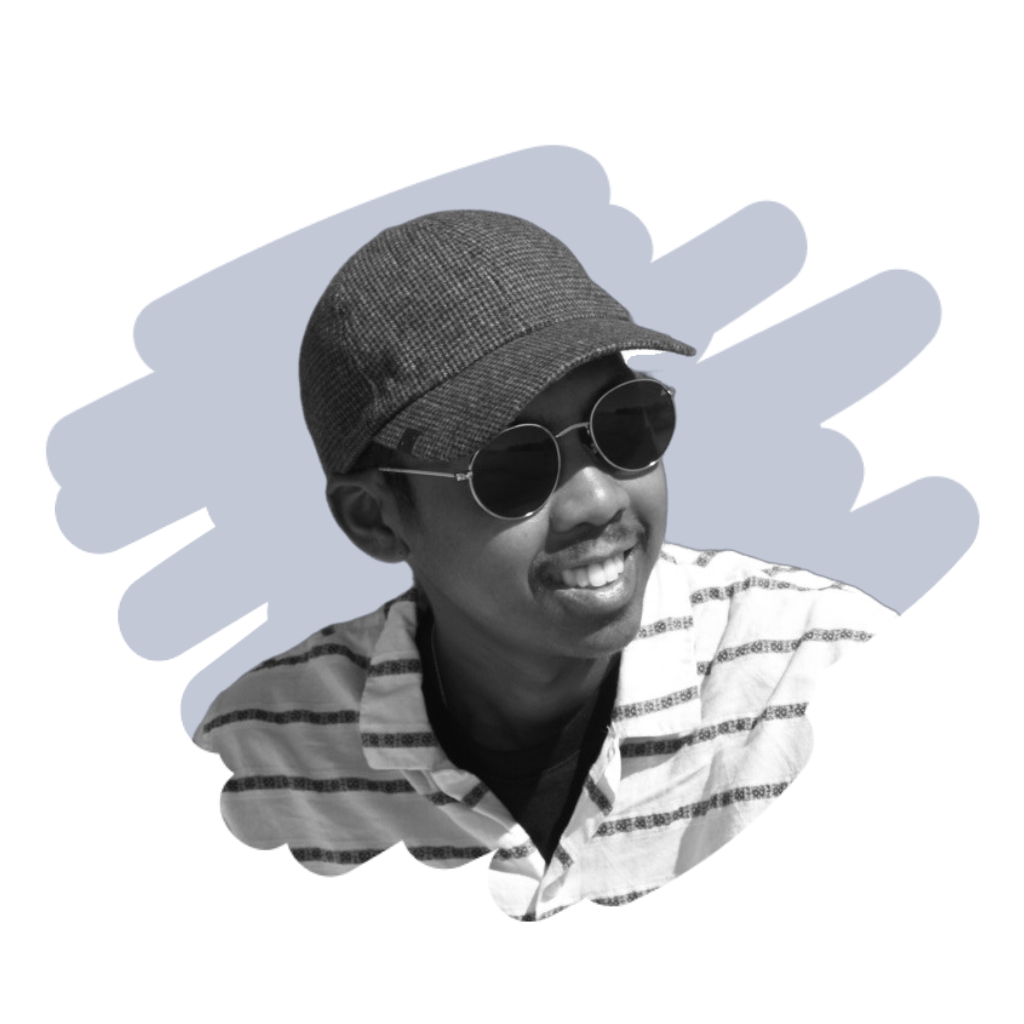
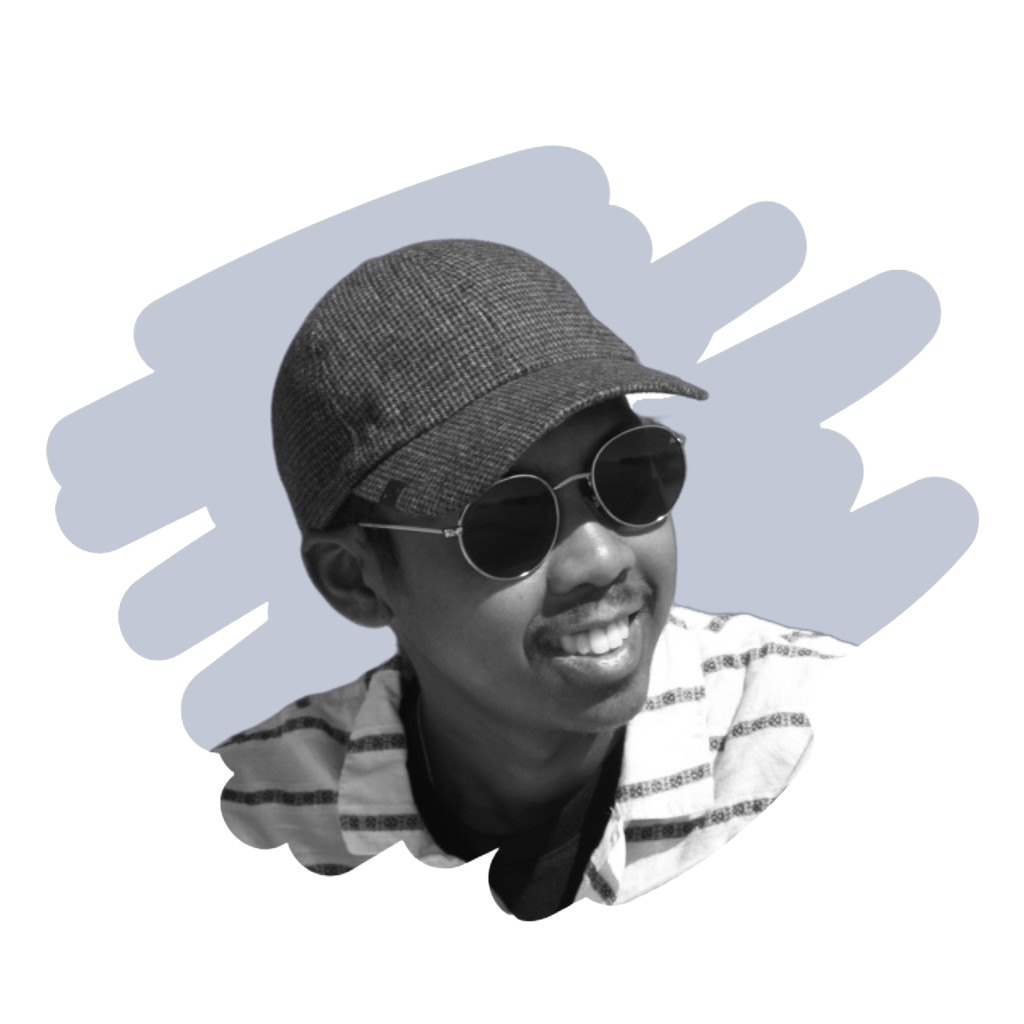
Replace profile picture

Changed region(s): [[0.1875, 0.1875, 0.875, 0.9062]]

diff --git a/app/_components/Header.tsx b/app/_components/Header.tsx
@@ -31,7 +31,7 @@ export default function Hero() {
         </div>
 
         {/* Right Section - Profile Image */}
-        <div className="w-80 h-80 lg:w-80 lg:h-80 my-6 lg:my-0 relative">
+        <div className="w-80 h-80 lg:w-96 lg:h-100 my-6 lg:my-0 relative">
           <Image
             src="/profile.png"
             alt="Profile"
@@ -42,40 +42,40 @@ export default function Hero() {
         </div>
       </div>
       {/* Buttons for Small Screens */}
-<div className="flex lg:hidden mt-8 space-x-4 justify-center tmp">
-  <a
-    href="documents/CV_Matthieu_RANDRIANTSOA.pdf"
-    target="_blank"
-    className="bg-purple-600 hover:bg-purple-700 text-white font-semibold py-3 px-6 rounded-lg shadow-md"
-  >
-    My Resume
-  </a>
-  <a
-    href="documents/CL_Matthieu_Randriantsoa_Roche.pdf"
-    target="_blank"
-    className="bg-gray-800 hover:bg-gray-700 text-white font-semibold py-3 px-6 rounded-lg shadow-md"
-  >
-    My Cover Letter
-  </a>
-</div>
+      <div className="flex lg:hidden mt-8 space-x-4 justify-center tmp">
+        <a
+          href="documents/CV_Matthieu_RANDRIANTSOA.pdf"
+          target="_blank"
+          className="bg-sky-600 hover:bg-sky-700 text-white font-semibold py-3 px-6 rounded-lg shadow-md"
+        >
+          My Resume
+        </a>
+        <a
+          href="documents/CL_Matthieu_Randriantsoa_Roche.pdf"
+          target="_blank"
+          className="bg-gray-800 hover:bg-gray-700 text-white font-semibold py-3 px-6 rounded-lg shadow-md"
+        >
+          My Cover Letter
+        </a>
+      </div>
 
-{/* Buttons for Large Screens */}
-<div className="hidden lg:flex lg:justify-start mt-8 space-x-4 justify-center tmp">
-  <a
-    href="documents/CV_Matthieu_RANDRIANTSOA.pdf"
-    target="_blank"
-    className="bg-sky-600 hover:bg-sky-700 text-white font-semibold py-3 px-6 rounded-lg shadow-md transform transition-all duration-300 animate-float"
-  >
-    My Resume
-  </a>
-  <a
-    href="documents/CL_Matthieu_Randriantsoa_Roche.pdf"
-    target="_blank"
-    className="bg-gray-800 hover:bg-gray-700 text-white font-semibold py-3 px-6 rounded-lg shadow-md transform transition-all duration-300 animate-float delay-200"
-  >
-    My Cover Letter
-  </a>
-</div>
+      {/* Buttons for Large Screens */}
+      <div className="hidden lg:flex lg:justify-start mt-8 space-x-4 justify-center tmp">
+        <a
+          href="documents/CV_Matthieu_RANDRIANTSOA.pdf"
+          target="_blank"
+          className="bg-sky-600 hover:bg-sky-700 text-white font-semibold py-3 px-6 rounded-lg shadow-md transform transition-all duration-300 animate-float"
+        >
+          My Resume
+        </a>
+        <a
+          href="documents/CL_Matthieu_Randriantsoa_Roche.pdf"
+          target="_blank"
+          className="bg-gray-800 hover:bg-gray-700 text-white font-semibold py-3 px-6 rounded-lg shadow-md transform transition-all duration-300 animate-float delay-200"
+        >
+          My Cover Letter
+        </a>
+      </div>
 
     </header>
   );
